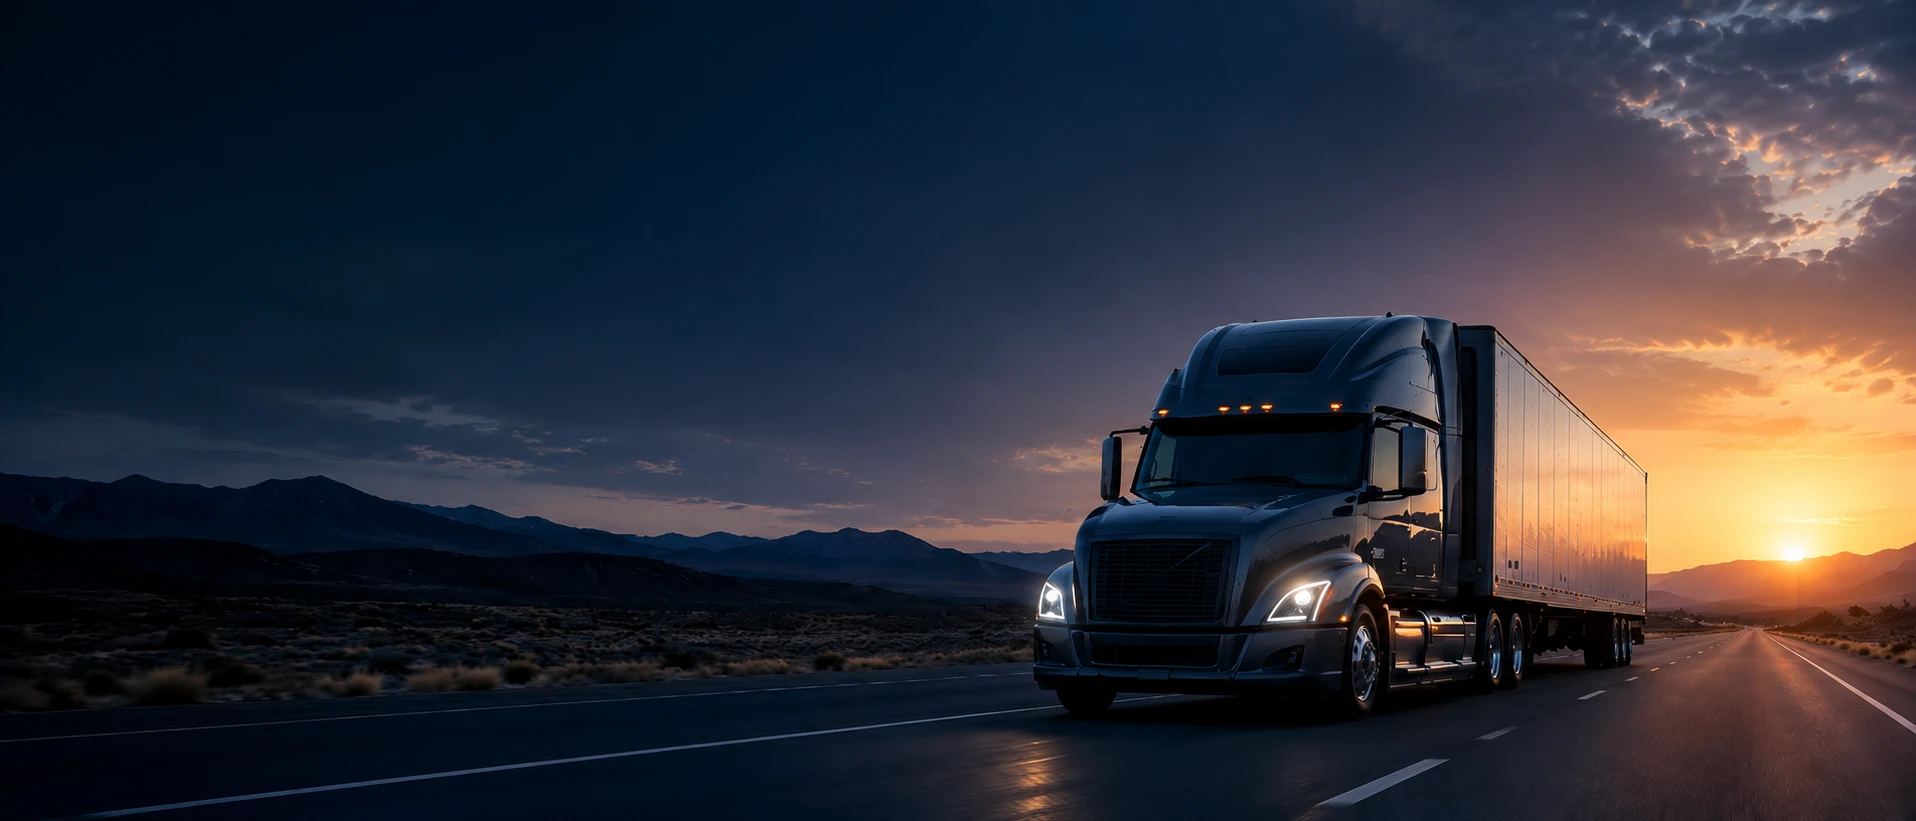
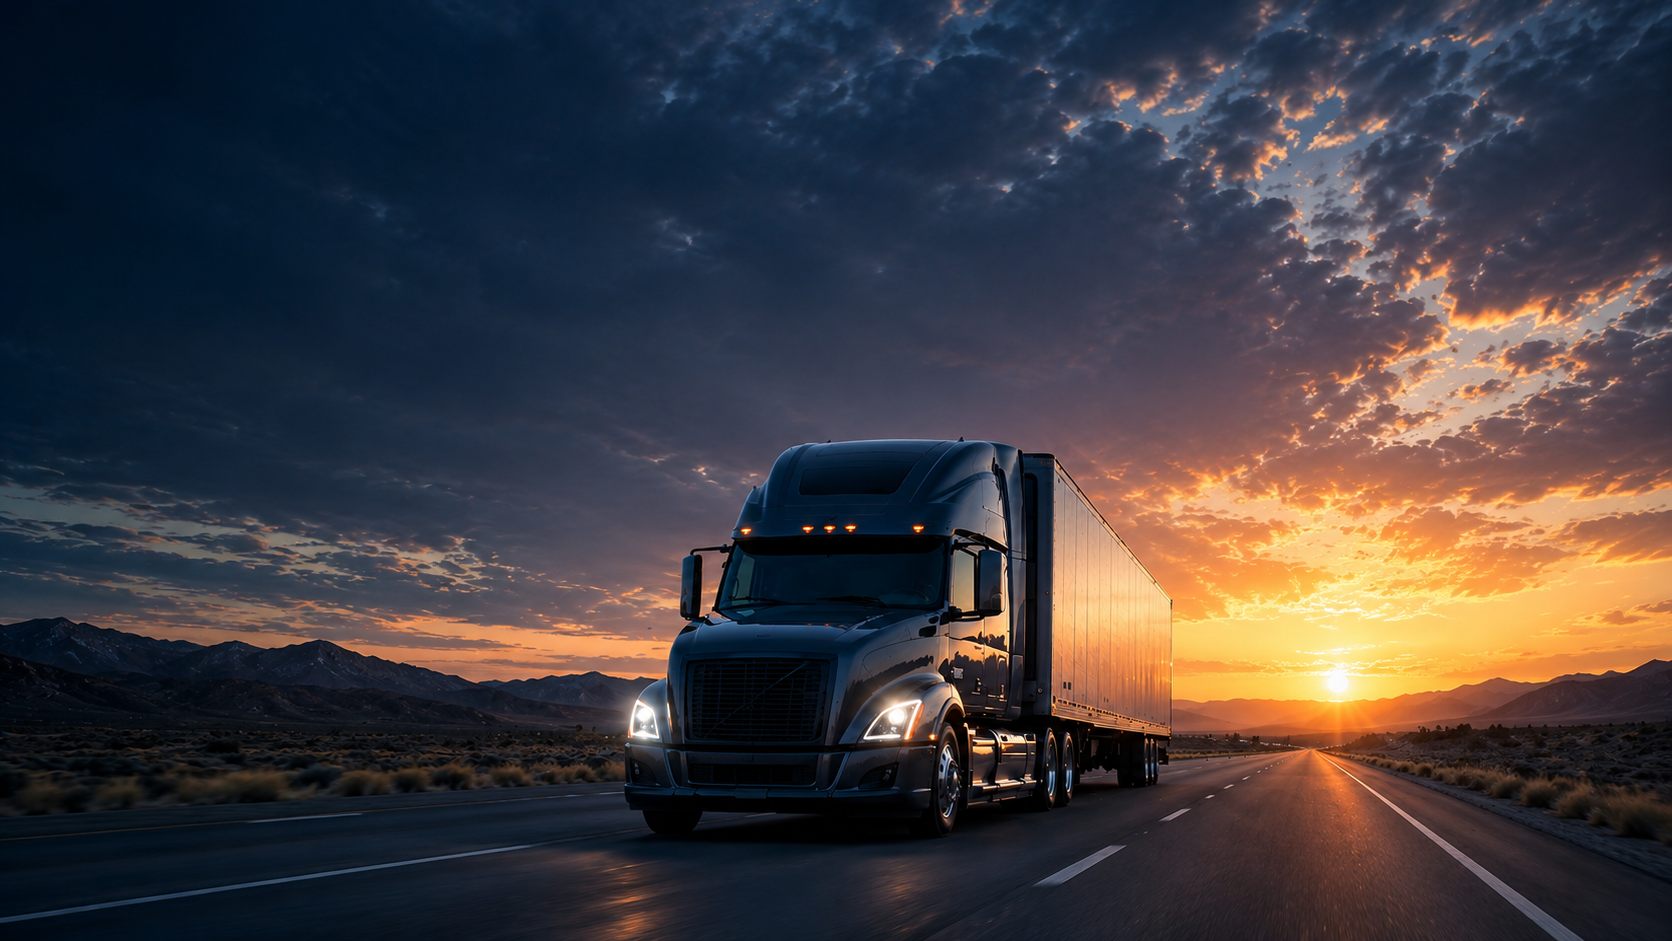
Replace hero truck photo with larger centered image
New photo is 1.8MB with truck centered in frame. Updated
background-position to center center to align with composition.

diff --git a/app/globals.css b/app/globals.css
@@ -74,7 +74,7 @@ a { color: inherit; text-decoration: none; }
       rgba(4, 9, 20, 0.00) 65%,
       rgba(4, 9, 20, 0.55) 100%
     ),
-    url('/images/hero-truck.jpg') center 40% / cover no-repeat,
+    url('/images/hero-truck.jpg') center center / cover no-repeat,
     #050b19;
 }
 .hero::before {